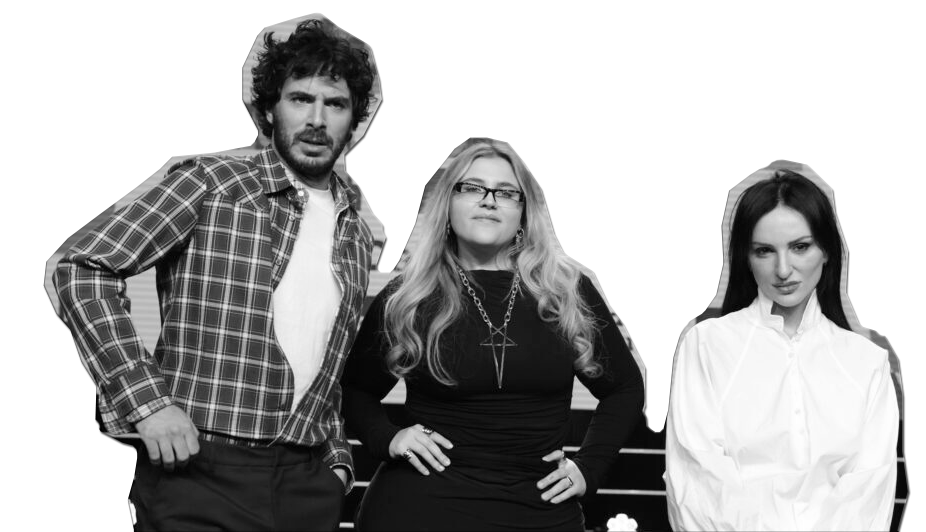
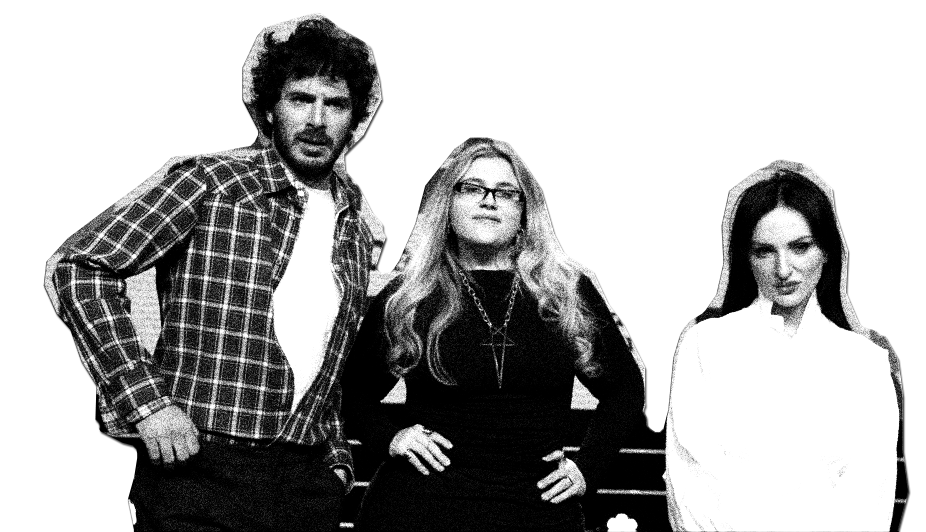
Correccion Imagenes

diff --git a/info.html b/info.html
@@ -50,6 +50,7 @@
                     Angelica Bove • Bambole di Pezza • Birthh • Casadilego • Chiello • Dardust con Davide Rossi • Delia • Ditonellapiaga • Dolcenera • Dutch Nazari • Eddie Brock • Emma • Emma Nolde • Ermal Meta • Frah Quintale • Francamente • Francesca Michielin • Fulminacci • Geolier • Irama • La NIÑA • Lea Gavino • Levante • Litfiba • Madame • Maria Antonietta & Colombre • Ministri • Mobrici • Niccolò Fabi • Nico Arezzo • okgiorgio • Orchestra Popolare La Notte della Taranta • Paolo Belli • Pinguini Tattici Nucleari • Primogenito • Riccardo Cocciante • rob • Rocco Hunt • Roshelle • Santamarea • Sayf • Senza Cri • Serena Brancale • Silvia Salemi • Sissi
                 </p>
             </div>
+            <img src="./Imagenes/pinguini.png" style="width: 100vw; mix-blend-mode: multiply;">
         </div>
     </section>
     <section style="background-color: #87BD2E; padding: 5vw;">

diff --git a/index.html b/index.html
@@ -52,13 +52,16 @@
                 <p style="color: #242424;"><b>Pierpaolo Spollon, BigMama e Arisa</b></p>
             </div>
             <div class="flex-item2">
-                <img width="100%" src="./Imagenes/conduttori.png">
+                <img width="100%" src="./Imagenes/conduttori2.png" style="mix-blend-mode: multiply;">
             </div>
         </div>
     </section>
     <section style="background-color: #FABD0D; padding: 5vw;">
         <div class="flex-container">
-            <div class="flex-item">
+            <div class="flex-item4">
+                <img src="./Imagenes/Madame.png" style="width: 45vw; mix-blend-mode: multiply;">
+            </div>
+            <div class="flex-item2">
                 <h1 style="color: #F8FAFC;">Scopri la lineup</h1>
                 <a href="info.html"><button>Conosci gli artisti</button></a>
             </div>

diff --git a/global.css b/global.css
@@ -102,6 +102,13 @@ a:active{
     flex-direction: row;
     width: 10vw;
 }
+.flex-item4{
+    flex:3;
+    padding: 1%;
+    text-align: left;
+    flex-direction: row;
+    width: 10vw;
+}
 section{ 
     padding: 0.5%;
     margin: 0%;
@@ -120,8 +127,8 @@ iframe{
 button{
     background-color: #403085;
     color: #F8FAFC;
-    padding: 1% 2%;
-    font-size: 3vh;
+    padding: 2% 3%;
+    font-size: 2.5vh;
     cursor: pointer;
     border:none;
     border-radius:1vw;

diff --git a/contatti.html b/contatti.html
@@ -29,6 +29,7 @@
         <div class="flex-container">
             <div class="flex-item3">
                 <h1 style="color: #87BD2E; font-size: xx-large;">FAQ - Domande frequenti</h1>
+                <img src="./Imagenes/PiazzaSanGiovanni.png" style="mix-blend-mode: multiply; width: 25vw; padding-top: 7vh;">
             </div>
             <div class="flex-item2">
                 <h2 style="color: #FABD0D;">Il concerto è gratuito?</h2>
